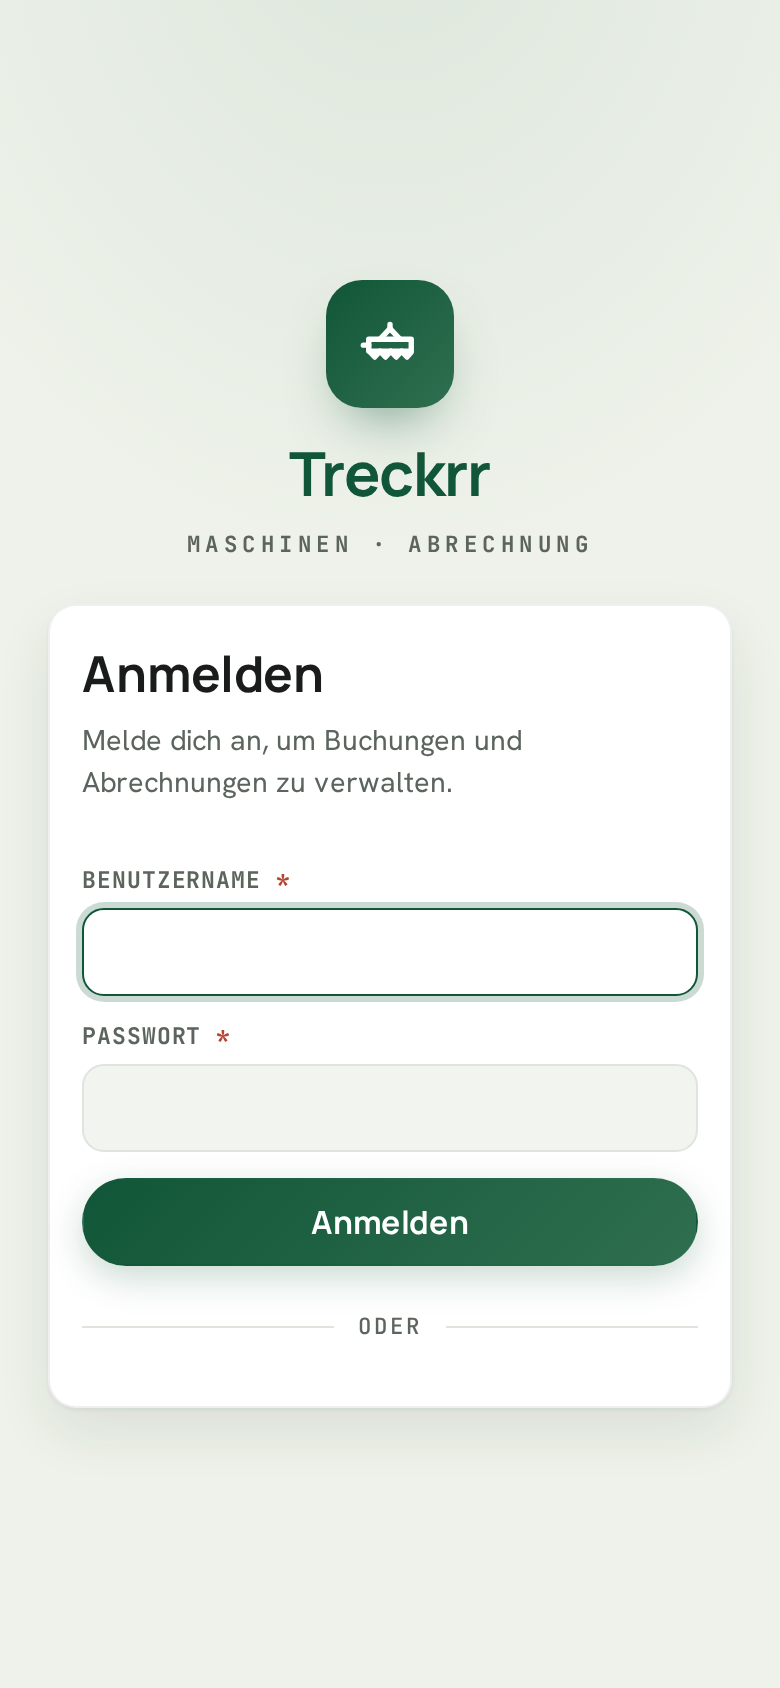
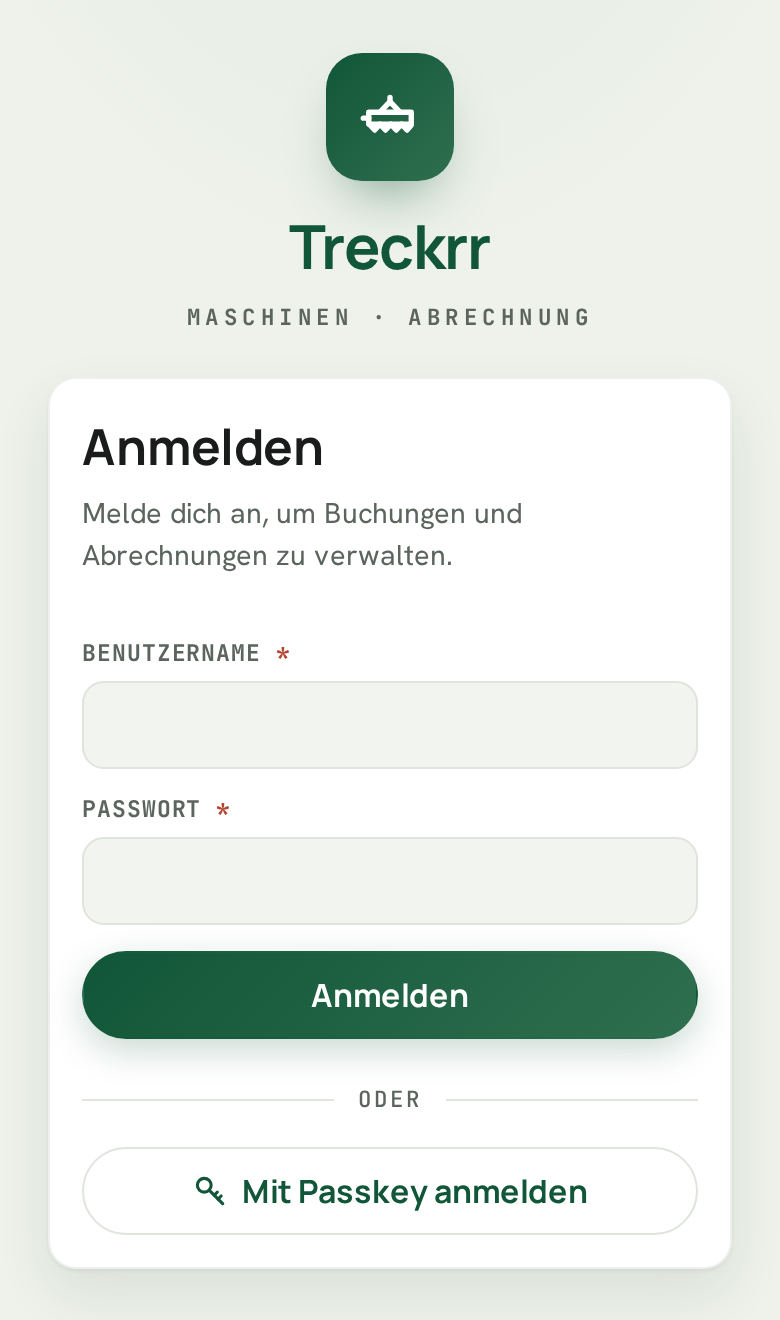
docs: fix login shot (passkey), add Grundlagen, drop redundant dark overview
- login: the passkey button is hidden by passkey.js when the browser has no
  platform authenticator (headless capture), so the old shot showed only
  username/password. Recaptured with the "Mit Passkey anmelden" button visible,
  clipped to the brand + card.
- add a Grundlagen shot: the rate-basis / cost workspace showing the tractor
  rates computed per load level (Stundensatz = PS x EUR/PS·h) — a core, relevant
  screen that had no picture.
- drop dashboard-dark.png: showing the same overview in both light and dark was
  redundant. Dark mode is still described in the features and the theme toggle
  is visible in every shot.

Gallery is now 8 distinct screens: login, dashboard, Grundlagen, neighbour,
Verrechnung, Beleg, statistics, drawer.

diff --git a/README.md b/README.md
@@ -44,16 +44,16 @@ receipt.
 ## Screenshots
 
 <p align="center">
-  <img src="docs/img/login.png" width="200" alt="Login — password + passkey">
+  <img src="docs/img/login.png" width="200" alt="Login — password or passkey">
   <img src="docs/img/dashboard.png" width="200" alt="Billing-year dashboard">
+  <img src="docs/img/grundlagen.png" width="200" alt="Rate basis — tractor & machine rates">
   <img src="docs/img/neighbor.png" width="200" alt="Neighbour — balance & new booking">
-  <img src="docs/img/verrechnung.png" width="200" alt="Bookings & running account (Verrechnung)">
 </p>
 <p align="center">
+  <img src="docs/img/verrechnung.png" width="200" alt="Bookings & running account (Verrechnung)">
   <img src="docs/img/beleg.png" width="200" alt="Shareable receipt (Beleg)">
   <img src="docs/img/stats.png" width="200" alt="Statistics — KPIs & charts">
   <img src="docs/img/menu.png" width="200" alt="Side-drawer navigation">
-  <img src="docs/img/dashboard-dark.png" width="200" alt="Dark mode">
 </p>
 <p align="center"><sub>Mobile-first PWA · German UI · light &amp; dark themes · password + TOTP or one-tap passkey login · exact-decimal billing with running-account offset (Verrechnung) and a shareable receipt.</sub></p>
 
